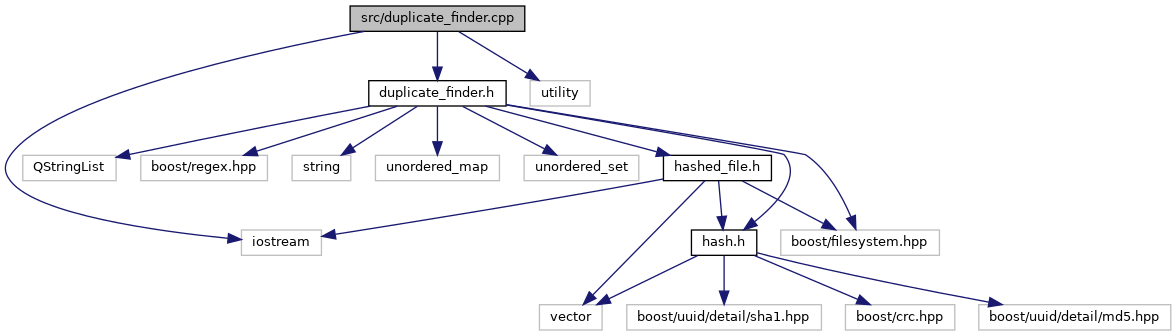
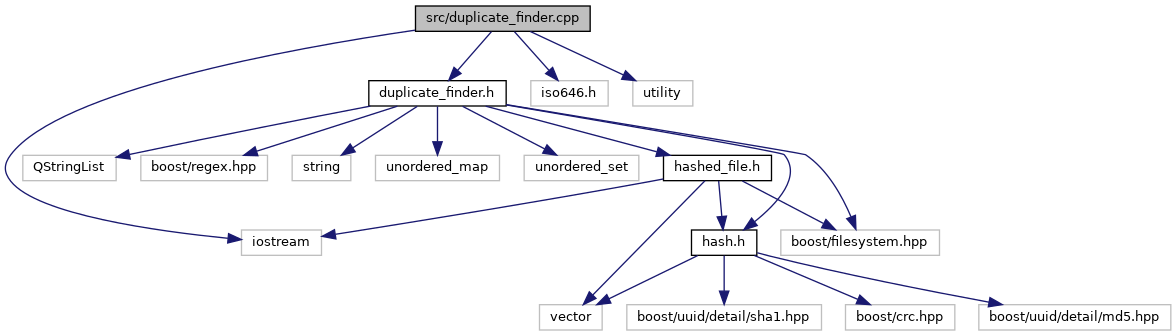
Documentation from travis-ci build

diff --git a/searchwindow_8h_source.html b/searchwindow_8h_source.html
@@ -69,7 +69,7 @@ $(function() {
 <div class="title">searchwindow.h</div>  </div>
 </div><!--header-->
 <div class="contents">
-<a href="searchwindow_8h.html">Go to the documentation of this file.</a><div class="fragment"><div class="line"><a name="l00001"></a><span class="lineno">    1</span>&#160;<span class="preprocessor">#pragma once</span></div><div class="line"><a name="l00002"></a><span class="lineno">    2</span>&#160;</div><div class="line"><a name="l00003"></a><span class="lineno">    3</span>&#160;<span class="preprocessor">#include &lt;QCheckBox&gt;</span></div><div class="line"><a name="l00004"></a><span class="lineno">    4</span>&#160;<span class="preprocessor">#include &lt;QComboBox&gt;</span></div><div class="line"><a name="l00005"></a><span class="lineno">    5</span>&#160;<span class="preprocessor">#include &lt;QFileDialog&gt;</span></div><div class="line"><a name="l00006"></a><span class="lineno">    6</span>&#160;<span class="preprocessor">#include &lt;QLabel&gt;</span></div><div class="line"><a name="l00007"></a><span class="lineno">    7</span>&#160;<span class="preprocessor">#include &lt;QLineEdit&gt;</span></div><div class="line"><a name="l00008"></a><span class="lineno">    8</span>&#160;<span class="preprocessor">#include &lt;QListWidget&gt;</span></div><div class="line"><a name="l00009"></a><span class="lineno">    9</span>&#160;<span class="preprocessor">#include &lt;QPointer&gt;</span></div><div class="line"><a name="l00010"></a><span class="lineno">   10</span>&#160;<span class="preprocessor">#include &lt;QPushButton&gt;</span></div><div class="line"><a name="l00011"></a><span class="lineno">   11</span>&#160;<span class="preprocessor">#include &lt;QRegExpValidator&gt;</span></div><div class="line"><a name="l00012"></a><span class="lineno">   12</span>&#160;<span class="preprocessor">#include &lt;QWidget&gt;</span></div><div class="line"><a name="l00013"></a><span class="lineno">   13</span>&#160;</div><div class="line"><a name="l00014"></a><span class="lineno"><a class="line" href="classSearchWindow.html">   14</a></span>&#160;<span class="keyword">class </span><a class="code" href="classSearchWindow.html">SearchWindow</a> : <span class="keyword">public</span> QWidget</div><div class="line"><a name="l00015"></a><span class="lineno">   15</span>&#160;{</div><div class="line"><a name="l00016"></a><span class="lineno">   16</span>&#160;    Q_OBJECT</div><div class="line"><a name="l00017"></a><span class="lineno">   17</span>&#160;<span class="keyword">public</span>:</div><div class="line"><a name="l00021"></a><span class="lineno">   21</span>&#160;    <a class="code" href="classSearchWindow.html#a852932985703b819d4df3dc68a76720b">SearchWindow</a>();</div><div class="line"><a name="l00022"></a><span class="lineno">   22</span>&#160;</div><div class="line"><a name="l00023"></a><span class="lineno">   23</span>&#160;<span class="keyword">private</span>:</div><div class="line"><a name="l00028"></a><span class="lineno">   28</span>&#160;    <span class="keyword">static</span> QStringList chooseDirectories();</div><div class="line"><a name="l00029"></a><span class="lineno">   29</span>&#160;</div><div class="line"><a name="l00033"></a><span class="lineno">   33</span>&#160;    <span class="keywordtype">void</span> createIncludeDirectoriesView();</div><div class="line"><a name="l00034"></a><span class="lineno">   34</span>&#160;</div><div class="line"><a name="l00038"></a><span class="lineno">   38</span>&#160;    <span class="keywordtype">void</span> createIncludeDirectoriesLabel();</div><div class="line"><a name="l00039"></a><span class="lineno">   39</span>&#160;</div><div class="line"><a name="l00043"></a><span class="lineno">   43</span>&#160;    <span class="keywordtype">void</span> createIncludeDirectoriesButton();</div><div class="line"><a name="l00044"></a><span class="lineno">   44</span>&#160;</div><div class="line"><a name="l00048"></a><span class="lineno">   48</span>&#160;    <span class="keywordtype">void</span> createExcludeDirectoriesView();</div><div class="line"><a name="l00049"></a><span class="lineno">   49</span>&#160;</div><div class="line"><a name="l00053"></a><span class="lineno">   53</span>&#160;    <span class="keywordtype">void</span> createExcludeDirectoriesLabel();</div><div class="line"><a name="l00054"></a><span class="lineno">   54</span>&#160;</div><div class="line"><a name="l00058"></a><span class="lineno">   58</span>&#160;    <span class="keywordtype">void</span> createExcludeDirectoriesButton();</div><div class="line"><a name="l00059"></a><span class="lineno">   59</span>&#160;</div><div class="line"><a name="l00063"></a><span class="lineno">   63</span>&#160;    <span class="keywordtype">void</span> createIncludeMasksView();</div><div class="line"><a name="l00064"></a><span class="lineno">   64</span>&#160;</div><div class="line"><a name="l00068"></a><span class="lineno">   68</span>&#160;    <span class="keywordtype">void</span> createIncludeMasksLabel();</div><div class="line"><a name="l00069"></a><span class="lineno">   69</span>&#160;</div><div class="line"><a name="l00073"></a><span class="lineno">   73</span>&#160;    <span class="keywordtype">void</span> createIncludeMasksEdit();</div><div class="line"><a name="l00074"></a><span class="lineno">   74</span>&#160;</div><div class="line"><a name="l00078"></a><span class="lineno">   78</span>&#160;    <span class="keywordtype">void</span> createIncludeMasksButton();</div><div class="line"><a name="l00079"></a><span class="lineno">   79</span>&#160;</div><div class="line"><a name="l00083"></a><span class="lineno">   83</span>&#160;    <span class="keywordtype">void</span> createIncludeMasksLink();</div><div class="line"><a name="l00084"></a><span class="lineno">   84</span>&#160;</div><div class="line"><a name="l00088"></a><span class="lineno">   88</span>&#160;    <span class="keywordtype">void</span> createExcludeMasksView();</div><div class="line"><a name="l00089"></a><span class="lineno">   89</span>&#160;</div><div class="line"><a name="l00093"></a><span class="lineno">   93</span>&#160;    <span class="keywordtype">void</span> createExcludeMasksLabel();</div><div class="line"><a name="l00094"></a><span class="lineno">   94</span>&#160;</div><div class="line"><a name="l00098"></a><span class="lineno">   98</span>&#160;    <span class="keywordtype">void</span> createExcludeMasksEdit();</div><div class="line"><a name="l00099"></a><span class="lineno">   99</span>&#160;</div><div class="line"><a name="l00103"></a><span class="lineno">  103</span>&#160;    <span class="keywordtype">void</span> createExcludeMasksButton();</div><div class="line"><a name="l00104"></a><span class="lineno">  104</span>&#160;</div><div class="line"><a name="l00108"></a><span class="lineno">  108</span>&#160;    <span class="keywordtype">void</span> createExcludeMasksLink();</div><div class="line"><a name="l00109"></a><span class="lineno">  109</span>&#160;</div><div class="line"><a name="l00113"></a><span class="lineno">  113</span>&#160;    <span class="keywordtype">void</span> createHashSearchBox();</div><div class="line"><a name="l00114"></a><span class="lineno">  114</span>&#160;</div><div class="line"><a name="l00118"></a><span class="lineno">  118</span>&#160;    <span class="keywordtype">void</span> createPossibleHashesComboBox();</div><div class="line"><a name="l00119"></a><span class="lineno">  119</span>&#160;</div><div class="line"><a name="l00123"></a><span class="lineno">  123</span>&#160;    <span class="keywordtype">void</span> createMetaSearchBox();</div><div class="line"><a name="l00124"></a><span class="lineno">  124</span>&#160;</div><div class="line"><a name="l00128"></a><span class="lineno">  128</span>&#160;    <span class="keywordtype">void</span> createAdditionalSettingsButton();</div><div class="line"><a name="l00129"></a><span class="lineno">  129</span>&#160;</div><div class="line"><a name="l00133"></a><span class="lineno">  133</span>&#160;    <span class="keywordtype">void</span> createSearchDepthLabel();</div><div class="line"><a name="l00134"></a><span class="lineno">  134</span>&#160;</div><div class="line"><a name="l00138"></a><span class="lineno">  138</span>&#160;    <span class="keywordtype">void</span> createSearchDepthEdit();</div><div class="line"><a name="l00139"></a><span class="lineno">  139</span>&#160;</div><div class="line"><a name="l00143"></a><span class="lineno">  143</span>&#160;    <span class="keywordtype">void</span> createMinFileSizeLabel();</div><div class="line"><a name="l00144"></a><span class="lineno">  144</span>&#160;</div><div class="line"><a name="l00148"></a><span class="lineno">  148</span>&#160;    <span class="keywordtype">void</span> createMinFileSizeEdit();</div><div class="line"><a name="l00149"></a><span class="lineno">  149</span>&#160;</div><div class="line"><a name="l00153"></a><span class="lineno">  153</span>&#160;    <span class="keywordtype">void</span> createMinFileSizeDimensionComboBox();</div><div class="line"><a name="l00154"></a><span class="lineno">  154</span>&#160;</div><div class="line"><a name="l00158"></a><span class="lineno">  158</span>&#160;    <span class="keywordtype">void</span> createSearchButton();</div><div class="line"><a name="l00159"></a><span class="lineno">  159</span>&#160;</div><div class="line"><a name="l00163"></a><span class="lineno">  163</span>&#160;    <span class="keywordtype">void</span> createSeparators();</div><div class="line"><a name="l00164"></a><span class="lineno">  164</span>&#160;</div><div class="line"><a name="l00165"></a><span class="lineno">  165</span>&#160;    QPointer&lt;QListWidget&gt; _includeDirectoriesView;</div><div class="line"><a name="l00166"></a><span class="lineno">  166</span>&#160;    QPointer&lt;QLabel&gt; _includeDirectoriesLabel;</div><div class="line"><a name="l00167"></a><span class="lineno">  167</span>&#160;    QPointer&lt;QPushButton&gt; _includeDirectoriesButton;</div><div class="line"><a name="l00168"></a><span class="lineno">  168</span>&#160;</div><div class="line"><a name="l00169"></a><span class="lineno">  169</span>&#160;    QPointer&lt;QListWidget&gt; _excludedDirectoriesView;</div><div class="line"><a name="l00170"></a><span class="lineno">  170</span>&#160;    QPointer&lt;QLabel&gt; _excludedDirectoriesLabel;</div><div class="line"><a name="l00171"></a><span class="lineno">  171</span>&#160;    QPointer&lt;QPushButton&gt; _excludeDirectoriesButton;</div><div class="line"><a name="l00172"></a><span class="lineno">  172</span>&#160;</div><div class="line"><a name="l00173"></a><span class="lineno">  173</span>&#160;    QPointer&lt;QListWidget&gt; _includeMasksView;</div><div class="line"><a name="l00174"></a><span class="lineno">  174</span>&#160;    QPointer&lt;QLabel&gt; _includeMasksLabel;</div><div class="line"><a name="l00175"></a><span class="lineno">  175</span>&#160;    QPointer&lt;QLineEdit&gt; _includeMasksEdit;</div><div class="line"><a name="l00176"></a><span class="lineno">  176</span>&#160;    QPointer&lt;QPushButton&gt; _includeMasksButton;</div><div class="line"><a name="l00177"></a><span class="lineno">  177</span>&#160;    QPointer&lt;QLabel&gt; _includeMasksLink;</div><div class="line"><a name="l00178"></a><span class="lineno">  178</span>&#160;</div><div class="line"><a name="l00179"></a><span class="lineno">  179</span>&#160;    QPointer&lt;QListWidget&gt; _excludeMasksView;</div><div class="line"><a name="l00180"></a><span class="lineno">  180</span>&#160;    QPointer&lt;QLabel&gt; _excludeMasksLabel;</div><div class="line"><a name="l00181"></a><span class="lineno">  181</span>&#160;    QPointer&lt;QLineEdit&gt; _excludeMasksEdit;</div><div class="line"><a name="l00182"></a><span class="lineno">  182</span>&#160;    QPointer&lt;QPushButton&gt; _excludeMasksButton;</div><div class="line"><a name="l00183"></a><span class="lineno">  183</span>&#160;    QPointer&lt;QLabel&gt; _excludeMasksLink;</div><div class="line"><a name="l00184"></a><span class="lineno">  184</span>&#160;</div><div class="line"><a name="l00185"></a><span class="lineno">  185</span>&#160;    QPointer&lt;QCheckBox&gt; _hashSearchBox;</div><div class="line"><a name="l00186"></a><span class="lineno">  186</span>&#160;    QPointer&lt;QComboBox&gt; _possibleHashesComboBox;</div><div class="line"><a name="l00187"></a><span class="lineno">  187</span>&#160;</div><div class="line"><a name="l00188"></a><span class="lineno">  188</span>&#160;    QPointer&lt;QCheckBox&gt; _metaSearchBox;</div><div class="line"><a name="l00189"></a><span class="lineno">  189</span>&#160;</div><div class="line"><a name="l00190"></a><span class="lineno">  190</span>&#160;    QPointer&lt;QPushButton&gt; _additionalSettingsButton;</div><div class="line"><a name="l00191"></a><span class="lineno">  191</span>&#160;</div><div class="line"><a name="l00192"></a><span class="lineno">  192</span>&#160;    QPointer&lt;QLabel&gt; _searchDepthLabel;</div><div class="line"><a name="l00193"></a><span class="lineno">  193</span>&#160;    QPointer&lt;QLineEdit&gt; _searchDepthEdit;</div><div class="line"><a name="l00194"></a><span class="lineno">  194</span>&#160;</div><div class="line"><a name="l00195"></a><span class="lineno">  195</span>&#160;    QPointer&lt;QLabel&gt; _minFileSizeLabel;</div><div class="line"><a name="l00196"></a><span class="lineno">  196</span>&#160;    QPointer&lt;QLineEdit&gt; _minFileSizeEdit;</div><div class="line"><a name="l00197"></a><span class="lineno">  197</span>&#160;    QPointer&lt;QComboBox&gt; _minFileSizeDimensionComboBox;</div><div class="line"><a name="l00198"></a><span class="lineno">  198</span>&#160;</div><div class="line"><a name="l00199"></a><span class="lineno">  199</span>&#160;    QPointer&lt;QPushButton&gt; _searchButton;</div><div class="line"><a name="l00200"></a><span class="lineno">  200</span>&#160;</div><div class="line"><a name="l00201"></a><span class="lineno">  201</span>&#160;    QStringList _includeDirectories;</div><div class="line"><a name="l00202"></a><span class="lineno">  202</span>&#160;    QStringList _excludeDirectories;</div><div class="line"><a name="l00203"></a><span class="lineno">  203</span>&#160;    QStringList _includeMasks;</div><div class="line"><a name="l00204"></a><span class="lineno">  204</span>&#160;    QStringList _excludeMasks;</div><div class="line"><a name="l00205"></a><span class="lineno">  205</span>&#160;</div><div class="line"><a name="l00206"></a><span class="lineno">  206</span>&#160;    <span class="keywordtype">bool</span> _searchByHash;</div><div class="line"><a name="l00207"></a><span class="lineno">  207</span>&#160;    <span class="keywordtype">bool</span> _searchByMeta;</div><div class="line"><a name="l00208"></a><span class="lineno">  208</span>&#160;    QString _hashType;</div><div class="line"><a name="l00209"></a><span class="lineno">  209</span>&#160;    QString _searchDepth;</div><div class="line"><a name="l00210"></a><span class="lineno">  210</span>&#160;    QString _minFileSize;</div><div class="line"><a name="l00211"></a><span class="lineno">  211</span>&#160;    QString _minFileSizeDimension;</div><div class="line"><a name="l00212"></a><span class="lineno">  212</span>&#160;</div><div class="line"><a name="l00213"></a><span class="lineno">  213</span>&#160;    <span class="keyword">const</span> QStringList _possibleHashes { <span class="stringliteral">&quot;crc32&quot;</span>, <span class="stringliteral">&quot;md5&quot;</span>, <span class="stringliteral">&quot;sha1&quot;</span> };</div><div class="line"><a name="l00214"></a><span class="lineno">  214</span>&#160;    <span class="keyword">const</span> QStringList _possibleFileSizeDimensions { <span class="stringliteral">&quot;b&quot;</span>, <span class="stringliteral">&quot;Kb&quot;</span>, <span class="stringliteral">&quot;Mb&quot;</span>, <span class="stringliteral">&quot;Gb&quot;</span> };</div><div class="line"><a name="l00215"></a><span class="lineno">  215</span>&#160;    <span class="keyword">const</span> QString _windowName = <span class="stringliteral">&quot;duplicate_finder&quot;</span>;</div><div class="line"><a name="l00216"></a><span class="lineno">  216</span>&#160;    <span class="keyword">const</span> <span class="keywordtype">int</span> _windowWidth = 640;</div><div class="line"><a name="l00217"></a><span class="lineno">  217</span>&#160;    <span class="keyword">const</span> <span class="keywordtype">int</span> _windowHeight = 750;</div><div class="line"><a name="l00218"></a><span class="lineno">  218</span>&#160;</div><div class="line"><a name="l00219"></a><span class="lineno">  219</span>&#160;<span class="keyword">private</span> slots:</div><div class="line"><a name="l00223"></a><span class="lineno">  223</span>&#160;    <span class="keywordtype">void</span> addSearchDirectories();</div><div class="line"><a name="l00224"></a><span class="lineno">  224</span>&#160;</div><div class="line"><a name="l00228"></a><span class="lineno">  228</span>&#160;    <span class="keywordtype">void</span> deleteSearchDirectory();</div><div class="line"><a name="l00229"></a><span class="lineno">  229</span>&#160;</div><div class="line"><a name="l00233"></a><span class="lineno">  233</span>&#160;    <span class="keywordtype">void</span> addExcludeDirectories();</div><div class="line"><a name="l00237"></a><span class="lineno">  237</span>&#160;    <span class="keywordtype">void</span> deleteExcludeDirectory();</div><div class="line"><a name="l00238"></a><span class="lineno">  238</span>&#160;</div><div class="line"><a name="l00242"></a><span class="lineno">  242</span>&#160;    <span class="keywordtype">void</span> addIncludeMask();</div><div class="line"><a name="l00243"></a><span class="lineno">  243</span>&#160;</div><div class="line"><a name="l00247"></a><span class="lineno">  247</span>&#160;    <span class="keywordtype">void</span> deleteIncludeMask();</div><div class="line"><a name="l00248"></a><span class="lineno">  248</span>&#160;</div><div class="line"><a name="l00252"></a><span class="lineno">  252</span>&#160;    <span class="keywordtype">void</span> addExcludeMask();</div><div class="line"><a name="l00253"></a><span class="lineno">  253</span>&#160;</div><div class="line"><a name="l00257"></a><span class="lineno">  257</span>&#160;    <span class="keywordtype">void</span> deleteExcludeMask();</div><div class="line"><a name="l00258"></a><span class="lineno">  258</span>&#160;</div><div class="line"><a name="l00262"></a><span class="lineno">  262</span>&#160;    <span class="keywordtype">void</span> toggleHashBox();</div><div class="line"><a name="l00263"></a><span class="lineno">  263</span>&#160;</div><div class="line"><a name="l00267"></a><span class="lineno">  267</span>&#160;    <span class="keywordtype">void</span> toggleMetaBox();</div><div class="line"><a name="l00268"></a><span class="lineno">  268</span>&#160;</div><div class="line"><a name="l00272"></a><span class="lineno">  272</span>&#160;    <span class="keywordtype">void</span> changeHash();</div><div class="line"><a name="l00273"></a><span class="lineno">  273</span>&#160;</div><div class="line"><a name="l00277"></a><span class="lineno">  277</span>&#160;    <span class="keywordtype">void</span> toggleAdditionalSettings();</div><div class="line"><a name="l00278"></a><span class="lineno">  278</span>&#160;</div><div class="line"><a name="l00282"></a><span class="lineno">  282</span>&#160;    <span class="keywordtype">void</span> changeFileSizeDimension();</div><div class="line"><a name="l00283"></a><span class="lineno">  283</span>&#160;</div><div class="line"><a name="l00287"></a><span class="lineno">  287</span>&#160;    <span class="keyword">static</span> <span class="keywordtype">void</span> openMaskHelp();</div><div class="line"><a name="l00288"></a><span class="lineno">  288</span>&#160;</div><div class="line"><a name="l00292"></a><span class="lineno">  292</span>&#160;    <span class="keywordtype">void</span> runSearch();</div><div class="line"><a name="l00293"></a><span class="lineno">  293</span>&#160;};</div><div class="ttc" id="classSearchWindow_html_a852932985703b819d4df3dc68a76720b"><div class="ttname"><a href="classSearchWindow.html#a852932985703b819d4df3dc68a76720b">SearchWindow::SearchWindow</a></div><div class="ttdeci">SearchWindow()</div><div class="ttdoc">Конструктор окна с настройками поиска </div><div class="ttdef"><b>Definition:</b> searchwindow.cpp:9</div></div>
+<a href="searchwindow_8h.html">Go to the documentation of this file.</a><div class="fragment"><div class="line"><a name="l00001"></a><span class="lineno">    1</span>&#160;<span class="preprocessor">#pragma once</span></div><div class="line"><a name="l00002"></a><span class="lineno">    2</span>&#160;</div><div class="line"><a name="l00003"></a><span class="lineno">    3</span>&#160;<span class="preprocessor">#include &lt;QCheckBox&gt;</span></div><div class="line"><a name="l00004"></a><span class="lineno">    4</span>&#160;<span class="preprocessor">#include &lt;QComboBox&gt;</span></div><div class="line"><a name="l00005"></a><span class="lineno">    5</span>&#160;<span class="preprocessor">#include &lt;QFileDialog&gt;</span></div><div class="line"><a name="l00006"></a><span class="lineno">    6</span>&#160;<span class="preprocessor">#include &lt;QLabel&gt;</span></div><div class="line"><a name="l00007"></a><span class="lineno">    7</span>&#160;<span class="preprocessor">#include &lt;QLineEdit&gt;</span></div><div class="line"><a name="l00008"></a><span class="lineno">    8</span>&#160;<span class="preprocessor">#include &lt;QListWidget&gt;</span></div><div class="line"><a name="l00009"></a><span class="lineno">    9</span>&#160;<span class="preprocessor">#include &lt;QPointer&gt;</span></div><div class="line"><a name="l00010"></a><span class="lineno">   10</span>&#160;<span class="preprocessor">#include &lt;QPushButton&gt;</span></div><div class="line"><a name="l00011"></a><span class="lineno">   11</span>&#160;<span class="preprocessor">#include &lt;QRegExpValidator&gt;</span></div><div class="line"><a name="l00012"></a><span class="lineno">   12</span>&#160;<span class="preprocessor">#include &lt;QWidget&gt;</span></div><div class="line"><a name="l00013"></a><span class="lineno">   13</span>&#160;</div><div class="line"><a name="l00014"></a><span class="lineno"><a class="line" href="classSearchWindow.html">   14</a></span>&#160;<span class="keyword">class </span><a class="code" href="classSearchWindow.html">SearchWindow</a> : <span class="keyword">public</span> QWidget</div><div class="line"><a name="l00015"></a><span class="lineno">   15</span>&#160;{</div><div class="line"><a name="l00016"></a><span class="lineno">   16</span>&#160;    Q_OBJECT</div><div class="line"><a name="l00017"></a><span class="lineno">   17</span>&#160;<span class="keyword">public</span>:</div><div class="line"><a name="l00021"></a><span class="lineno">   21</span>&#160;    <a class="code" href="classSearchWindow.html#a852932985703b819d4df3dc68a76720b">SearchWindow</a>();</div><div class="line"><a name="l00022"></a><span class="lineno">   22</span>&#160;</div><div class="line"><a name="l00023"></a><span class="lineno">   23</span>&#160;<span class="keyword">private</span>:</div><div class="line"><a name="l00028"></a><span class="lineno">   28</span>&#160;    <span class="keyword">static</span> QStringList chooseDirectories();</div><div class="line"><a name="l00029"></a><span class="lineno">   29</span>&#160;</div><div class="line"><a name="l00033"></a><span class="lineno">   33</span>&#160;    <span class="keywordtype">void</span> createIncludeDirectoriesView();</div><div class="line"><a name="l00034"></a><span class="lineno">   34</span>&#160;</div><div class="line"><a name="l00038"></a><span class="lineno">   38</span>&#160;    <span class="keywordtype">void</span> createIncludeDirectoriesLabel();</div><div class="line"><a name="l00039"></a><span class="lineno">   39</span>&#160;</div><div class="line"><a name="l00043"></a><span class="lineno">   43</span>&#160;    <span class="keywordtype">void</span> createIncludeDirectoriesButton();</div><div class="line"><a name="l00044"></a><span class="lineno">   44</span>&#160;</div><div class="line"><a name="l00048"></a><span class="lineno">   48</span>&#160;    <span class="keywordtype">void</span> createExcludeDirectoriesView();</div><div class="line"><a name="l00049"></a><span class="lineno">   49</span>&#160;</div><div class="line"><a name="l00053"></a><span class="lineno">   53</span>&#160;    <span class="keywordtype">void</span> createExcludeDirectoriesLabel();</div><div class="line"><a name="l00054"></a><span class="lineno">   54</span>&#160;</div><div class="line"><a name="l00058"></a><span class="lineno">   58</span>&#160;    <span class="keywordtype">void</span> createExcludeDirectoriesButton();</div><div class="line"><a name="l00059"></a><span class="lineno">   59</span>&#160;</div><div class="line"><a name="l00063"></a><span class="lineno">   63</span>&#160;    <span class="keywordtype">void</span> createIncludeMasksView();</div><div class="line"><a name="l00064"></a><span class="lineno">   64</span>&#160;</div><div class="line"><a name="l00068"></a><span class="lineno">   68</span>&#160;    <span class="keywordtype">void</span> createIncludeMasksLabel();</div><div class="line"><a name="l00069"></a><span class="lineno">   69</span>&#160;</div><div class="line"><a name="l00073"></a><span class="lineno">   73</span>&#160;    <span class="keywordtype">void</span> createIncludeMasksEdit();</div><div class="line"><a name="l00074"></a><span class="lineno">   74</span>&#160;</div><div class="line"><a name="l00078"></a><span class="lineno">   78</span>&#160;    <span class="keywordtype">void</span> createIncludeMasksButton();</div><div class="line"><a name="l00079"></a><span class="lineno">   79</span>&#160;</div><div class="line"><a name="l00083"></a><span class="lineno">   83</span>&#160;    <span class="keywordtype">void</span> createIncludeMasksLink();</div><div class="line"><a name="l00084"></a><span class="lineno">   84</span>&#160;</div><div class="line"><a name="l00088"></a><span class="lineno">   88</span>&#160;    <span class="keywordtype">void</span> createExcludeMasksView();</div><div class="line"><a name="l00089"></a><span class="lineno">   89</span>&#160;</div><div class="line"><a name="l00093"></a><span class="lineno">   93</span>&#160;    <span class="keywordtype">void</span> createExcludeMasksLabel();</div><div class="line"><a name="l00094"></a><span class="lineno">   94</span>&#160;</div><div class="line"><a name="l00098"></a><span class="lineno">   98</span>&#160;    <span class="keywordtype">void</span> createExcludeMasksEdit();</div><div class="line"><a name="l00099"></a><span class="lineno">   99</span>&#160;</div><div class="line"><a name="l00103"></a><span class="lineno">  103</span>&#160;    <span class="keywordtype">void</span> createExcludeMasksButton();</div><div class="line"><a name="l00104"></a><span class="lineno">  104</span>&#160;</div><div class="line"><a name="l00108"></a><span class="lineno">  108</span>&#160;    <span class="keywordtype">void</span> createExcludeMasksLink();</div><div class="line"><a name="l00109"></a><span class="lineno">  109</span>&#160;</div><div class="line"><a name="l00113"></a><span class="lineno">  113</span>&#160;    <span class="keywordtype">void</span> createHashSearchBox();</div><div class="line"><a name="l00114"></a><span class="lineno">  114</span>&#160;</div><div class="line"><a name="l00118"></a><span class="lineno">  118</span>&#160;    <span class="keywordtype">void</span> createPossibleHashesComboBox();</div><div class="line"><a name="l00119"></a><span class="lineno">  119</span>&#160;</div><div class="line"><a name="l00123"></a><span class="lineno">  123</span>&#160;    <span class="keywordtype">void</span> createMetaSearchBox();</div><div class="line"><a name="l00124"></a><span class="lineno">  124</span>&#160;</div><div class="line"><a name="l00128"></a><span class="lineno">  128</span>&#160;    <span class="keywordtype">void</span> createAdditionalSettingsButton();</div><div class="line"><a name="l00129"></a><span class="lineno">  129</span>&#160;</div><div class="line"><a name="l00133"></a><span class="lineno">  133</span>&#160;    <span class="keywordtype">void</span> createSearchDepthLabel();</div><div class="line"><a name="l00134"></a><span class="lineno">  134</span>&#160;</div><div class="line"><a name="l00138"></a><span class="lineno">  138</span>&#160;    <span class="keywordtype">void</span> createSearchDepthEdit();</div><div class="line"><a name="l00139"></a><span class="lineno">  139</span>&#160;</div><div class="line"><a name="l00143"></a><span class="lineno">  143</span>&#160;    <span class="keywordtype">void</span> createMinFileSizeLabel();</div><div class="line"><a name="l00144"></a><span class="lineno">  144</span>&#160;</div><div class="line"><a name="l00148"></a><span class="lineno">  148</span>&#160;    <span class="keywordtype">void</span> createMinFileSizeEdit();</div><div class="line"><a name="l00149"></a><span class="lineno">  149</span>&#160;</div><div class="line"><a name="l00153"></a><span class="lineno">  153</span>&#160;    <span class="keywordtype">void</span> createMinFileSizeDimensionComboBox();</div><div class="line"><a name="l00154"></a><span class="lineno">  154</span>&#160;</div><div class="line"><a name="l00158"></a><span class="lineno">  158</span>&#160;    <span class="keywordtype">void</span> createSearchButton();</div><div class="line"><a name="l00159"></a><span class="lineno">  159</span>&#160;</div><div class="line"><a name="l00163"></a><span class="lineno">  163</span>&#160;    <span class="keywordtype">void</span> createSeparators();</div><div class="line"><a name="l00164"></a><span class="lineno">  164</span>&#160;</div><div class="line"><a name="l00165"></a><span class="lineno">  165</span>&#160;    QPointer&lt;QListWidget&gt; _includeDirectoriesView;</div><div class="line"><a name="l00166"></a><span class="lineno">  166</span>&#160;    QPointer&lt;QLabel&gt; _includeDirectoriesLabel;</div><div class="line"><a name="l00167"></a><span class="lineno">  167</span>&#160;    QPointer&lt;QPushButton&gt; _includeDirectoriesButton;</div><div class="line"><a name="l00168"></a><span class="lineno">  168</span>&#160;</div><div class="line"><a name="l00169"></a><span class="lineno">  169</span>&#160;    QPointer&lt;QListWidget&gt; _excludedDirectoriesView;</div><div class="line"><a name="l00170"></a><span class="lineno">  170</span>&#160;    QPointer&lt;QLabel&gt; _excludedDirectoriesLabel;</div><div class="line"><a name="l00171"></a><span class="lineno">  171</span>&#160;    QPointer&lt;QPushButton&gt; _excludeDirectoriesButton;</div><div class="line"><a name="l00172"></a><span class="lineno">  172</span>&#160;</div><div class="line"><a name="l00173"></a><span class="lineno">  173</span>&#160;    QPointer&lt;QListWidget&gt; _includeMasksView;</div><div class="line"><a name="l00174"></a><span class="lineno">  174</span>&#160;    QPointer&lt;QLabel&gt; _includeMasksLabel;</div><div class="line"><a name="l00175"></a><span class="lineno">  175</span>&#160;    QPointer&lt;QLineEdit&gt; _includeMasksEdit;</div><div class="line"><a name="l00176"></a><span class="lineno">  176</span>&#160;    QPointer&lt;QPushButton&gt; _includeMasksButton;</div><div class="line"><a name="l00177"></a><span class="lineno">  177</span>&#160;    QPointer&lt;QLabel&gt; _includeMasksLink;</div><div class="line"><a name="l00178"></a><span class="lineno">  178</span>&#160;</div><div class="line"><a name="l00179"></a><span class="lineno">  179</span>&#160;    QPointer&lt;QListWidget&gt; _excludeMasksView;</div><div class="line"><a name="l00180"></a><span class="lineno">  180</span>&#160;    QPointer&lt;QLabel&gt; _excludeMasksLabel;</div><div class="line"><a name="l00181"></a><span class="lineno">  181</span>&#160;    QPointer&lt;QLineEdit&gt; _excludeMasksEdit;</div><div class="line"><a name="l00182"></a><span class="lineno">  182</span>&#160;    QPointer&lt;QPushButton&gt; _excludeMasksButton;</div><div class="line"><a name="l00183"></a><span class="lineno">  183</span>&#160;    QPointer&lt;QLabel&gt; _excludeMasksLink;</div><div class="line"><a name="l00184"></a><span class="lineno">  184</span>&#160;</div><div class="line"><a name="l00185"></a><span class="lineno">  185</span>&#160;    QPointer&lt;QCheckBox&gt; _hashSearchBox;</div><div class="line"><a name="l00186"></a><span class="lineno">  186</span>&#160;    QPointer&lt;QComboBox&gt; _possibleHashesComboBox;</div><div class="line"><a name="l00187"></a><span class="lineno">  187</span>&#160;</div><div class="line"><a name="l00188"></a><span class="lineno">  188</span>&#160;    QPointer&lt;QCheckBox&gt; _metaSearchBox;</div><div class="line"><a name="l00189"></a><span class="lineno">  189</span>&#160;</div><div class="line"><a name="l00190"></a><span class="lineno">  190</span>&#160;    QPointer&lt;QPushButton&gt; _additionalSettingsButton;</div><div class="line"><a name="l00191"></a><span class="lineno">  191</span>&#160;</div><div class="line"><a name="l00192"></a><span class="lineno">  192</span>&#160;    QPointer&lt;QLabel&gt; _searchDepthLabel;</div><div class="line"><a name="l00193"></a><span class="lineno">  193</span>&#160;    QPointer&lt;QLineEdit&gt; _searchDepthEdit;</div><div class="line"><a name="l00194"></a><span class="lineno">  194</span>&#160;</div><div class="line"><a name="l00195"></a><span class="lineno">  195</span>&#160;    QPointer&lt;QLabel&gt; _minFileSizeLabel;</div><div class="line"><a name="l00196"></a><span class="lineno">  196</span>&#160;    QPointer&lt;QLineEdit&gt; _minFileSizeEdit;</div><div class="line"><a name="l00197"></a><span class="lineno">  197</span>&#160;    QPointer&lt;QComboBox&gt; _minFileSizeDimensionComboBox;</div><div class="line"><a name="l00198"></a><span class="lineno">  198</span>&#160;</div><div class="line"><a name="l00199"></a><span class="lineno">  199</span>&#160;    QPointer&lt;QPushButton&gt; _searchButton;</div><div class="line"><a name="l00200"></a><span class="lineno">  200</span>&#160;</div><div class="line"><a name="l00201"></a><span class="lineno">  201</span>&#160;    QStringList _includeDirectories;</div><div class="line"><a name="l00202"></a><span class="lineno">  202</span>&#160;    QStringList _excludeDirectories;</div><div class="line"><a name="l00203"></a><span class="lineno">  203</span>&#160;    QStringList _includeMasks;</div><div class="line"><a name="l00204"></a><span class="lineno">  204</span>&#160;    QStringList _excludeMasks;</div><div class="line"><a name="l00205"></a><span class="lineno">  205</span>&#160;</div><div class="line"><a name="l00206"></a><span class="lineno">  206</span>&#160;    <span class="keywordtype">bool</span> _searchByHash;</div><div class="line"><a name="l00207"></a><span class="lineno">  207</span>&#160;    <span class="keywordtype">bool</span> _searchByMeta;</div><div class="line"><a name="l00208"></a><span class="lineno">  208</span>&#160;    QString _hashType;</div><div class="line"><a name="l00209"></a><span class="lineno">  209</span>&#160;    QString _searchDepth;</div><div class="line"><a name="l00210"></a><span class="lineno">  210</span>&#160;    QString _minFileSize;</div><div class="line"><a name="l00211"></a><span class="lineno">  211</span>&#160;    QString _minFileSizeDimension;</div><div class="line"><a name="l00212"></a><span class="lineno">  212</span>&#160;</div><div class="line"><a name="l00213"></a><span class="lineno">  213</span>&#160;    <span class="keyword">const</span> QStringList _possibleHashes { <span class="stringliteral">&quot;crc32&quot;</span>, <span class="stringliteral">&quot;md5&quot;</span>, <span class="stringliteral">&quot;sha1&quot;</span> };</div><div class="line"><a name="l00214"></a><span class="lineno">  214</span>&#160;    <span class="keyword">const</span> QStringList _possibleFileSizeDimensions { <span class="stringliteral">&quot;b&quot;</span>, <span class="stringliteral">&quot;Kb&quot;</span>, <span class="stringliteral">&quot;Mb&quot;</span>, <span class="stringliteral">&quot;Gb&quot;</span> };</div><div class="line"><a name="l00215"></a><span class="lineno">  215</span>&#160;    <span class="keyword">const</span> QString _windowName = <span class="stringliteral">&quot;duplicate_finder&quot;</span>;</div><div class="line"><a name="l00216"></a><span class="lineno">  216</span>&#160;    <span class="keyword">const</span> <span class="keywordtype">int</span> _windowWidth = 640;</div><div class="line"><a name="l00217"></a><span class="lineno">  217</span>&#160;    <span class="keyword">const</span> <span class="keywordtype">int</span> _windowHeight = 750;</div><div class="line"><a name="l00218"></a><span class="lineno">  218</span>&#160;</div><div class="line"><a name="l00219"></a><span class="lineno">  219</span>&#160;<span class="keyword">private</span> slots:</div><div class="line"><a name="l00223"></a><span class="lineno">  223</span>&#160;    <span class="keywordtype">void</span> addSearchDirectories();</div><div class="line"><a name="l00224"></a><span class="lineno">  224</span>&#160;</div><div class="line"><a name="l00228"></a><span class="lineno">  228</span>&#160;    <span class="keywordtype">void</span> deleteSearchDirectory();</div><div class="line"><a name="l00229"></a><span class="lineno">  229</span>&#160;</div><div class="line"><a name="l00233"></a><span class="lineno">  233</span>&#160;    <span class="keywordtype">void</span> addExcludeDirectories();</div><div class="line"><a name="l00237"></a><span class="lineno">  237</span>&#160;    <span class="keywordtype">void</span> deleteExcludeDirectory();</div><div class="line"><a name="l00238"></a><span class="lineno">  238</span>&#160;</div><div class="line"><a name="l00242"></a><span class="lineno">  242</span>&#160;    <span class="keywordtype">void</span> addIncludeMask();</div><div class="line"><a name="l00243"></a><span class="lineno">  243</span>&#160;</div><div class="line"><a name="l00247"></a><span class="lineno">  247</span>&#160;    <span class="keywordtype">void</span> deleteIncludeMask();</div><div class="line"><a name="l00248"></a><span class="lineno">  248</span>&#160;</div><div class="line"><a name="l00252"></a><span class="lineno">  252</span>&#160;    <span class="keywordtype">void</span> addExcludeMask();</div><div class="line"><a name="l00253"></a><span class="lineno">  253</span>&#160;</div><div class="line"><a name="l00257"></a><span class="lineno">  257</span>&#160;    <span class="keywordtype">void</span> deleteExcludeMask();</div><div class="line"><a name="l00258"></a><span class="lineno">  258</span>&#160;</div><div class="line"><a name="l00262"></a><span class="lineno">  262</span>&#160;    <span class="keywordtype">void</span> toggleHashBox();</div><div class="line"><a name="l00263"></a><span class="lineno">  263</span>&#160;</div><div class="line"><a name="l00267"></a><span class="lineno">  267</span>&#160;    <span class="keywordtype">void</span> toggleMetaBox();</div><div class="line"><a name="l00268"></a><span class="lineno">  268</span>&#160;</div><div class="line"><a name="l00272"></a><span class="lineno">  272</span>&#160;    <span class="keywordtype">void</span> changeHash();</div><div class="line"><a name="l00273"></a><span class="lineno">  273</span>&#160;</div><div class="line"><a name="l00277"></a><span class="lineno">  277</span>&#160;    <span class="keywordtype">void</span> toggleAdditionalSettings();</div><div class="line"><a name="l00278"></a><span class="lineno">  278</span>&#160;</div><div class="line"><a name="l00282"></a><span class="lineno">  282</span>&#160;    <span class="keywordtype">void</span> changeFileSizeDimension();</div><div class="line"><a name="l00283"></a><span class="lineno">  283</span>&#160;</div><div class="line"><a name="l00287"></a><span class="lineno">  287</span>&#160;    <span class="keyword">static</span> <span class="keywordtype">void</span> openMaskHelp();</div><div class="line"><a name="l00288"></a><span class="lineno">  288</span>&#160;</div><div class="line"><a name="l00292"></a><span class="lineno">  292</span>&#160;    <span class="keywordtype">void</span> runSearch();</div><div class="line"><a name="l00293"></a><span class="lineno">  293</span>&#160;};</div><div class="ttc" id="classSearchWindow_html_a852932985703b819d4df3dc68a76720b"><div class="ttname"><a href="classSearchWindow.html#a852932985703b819d4df3dc68a76720b">SearchWindow::SearchWindow</a></div><div class="ttdeci">SearchWindow()</div><div class="ttdoc">Конструктор окна с настройками поиска </div><div class="ttdef"><b>Definition:</b> searchwindow.cpp:10</div></div>
 <div class="ttc" id="classSearchWindow_html"><div class="ttname"><a href="classSearchWindow.html">SearchWindow</a></div><div class="ttdef"><b>Definition:</b> searchwindow.h:14</div></div>
 </div><!-- fragment --></div><!-- contents -->
 <!-- start footer part -->

diff --git a/duplicate__finder_8h_source.html b/duplicate__finder_8h_source.html
@@ -73,7 +73,7 @@ $(function() {
 <div class="ttc" id="classDuplicateFinder_html_aae943c51bdb2bd2e527d7a5495d71f31"><div class="ttname"><a href="classDuplicateFinder.html#aae943c51bdb2bd2e527d7a5495d71f31">DuplicateFinder::DuplicateFinder</a></div><div class="ttdeci">DuplicateFinder()=delete</div></div>
 <div class="ttc" id="hash_8h_html"><div class="ttname"><a href="hash_8h.html">hash.h</a></div></div>
 <div class="ttc" id="classDuplicateFinder_html"><div class="ttname"><a href="classDuplicateFinder.html">DuplicateFinder</a></div><div class="ttdef"><b>Definition:</b> duplicate_finder.h:13</div></div>
-<div class="ttc" id="classDuplicateFinder_html_abcf0fb9d8cb47d610668d6c3ca042921"><div class="ttname"><a href="classDuplicateFinder.html#abcf0fb9d8cb47d610668d6c3ca042921">DuplicateFinder::Find</a></div><div class="ttdeci">std::unordered_map&lt; std::string, std::unordered_set&lt; std::string &gt; &gt; Find()</div><div class="ttdoc">Find duplicate files. </div><div class="ttdef"><b>Definition:</b> duplicate_finder.cpp:48</div></div>
+<div class="ttc" id="classDuplicateFinder_html_abcf0fb9d8cb47d610668d6c3ca042921"><div class="ttname"><a href="classDuplicateFinder.html#abcf0fb9d8cb47d610668d6c3ca042921">DuplicateFinder::Find</a></div><div class="ttdeci">std::unordered_map&lt; std::string, std::unordered_set&lt; std::string &gt; &gt; Find()</div><div class="ttdoc">Find duplicate files. </div><div class="ttdef"><b>Definition:</b> duplicate_finder.cpp:49</div></div>
 </div><!-- fragment --></div><!-- contents -->
 <!-- start footer part -->
 <hr class="footer"/><address class="footer"><small>

diff --git a/duplicate__finder_8cpp.html b/duplicate__finder_8cpp.html
@@ -71,6 +71,7 @@ $(function() {
 <div class="contents">
 <div class="textblock"><code>#include &quot;<a class="el" href="duplicate__finder_8h_source.html">duplicate_finder.h</a>&quot;</code><br />
 <code>#include &lt;iostream&gt;</code><br />
+<code>#include &lt;iso646.h&gt;</code><br />
 <code>#include &lt;utility&gt;</code><br />
 </div><div class="textblock"><div class="dynheader">
 Include dependency graph for duplicate_finder.cpp:</div>

diff --git a/searchwindow_8cpp.html b/searchwindow_8cpp.html
@@ -74,6 +74,7 @@ $(function() {
 <code>#include &lt;QDesktopServices&gt;</code><br />
 <code>#include &lt;QShortcut&gt;</code><br />
 <code>#include &lt;QTreeView&gt;</code><br />
+<code>#include &lt;iso646.h&gt;</code><br />
 </div><div class="textblock"><div class="dynheader">
 Include dependency graph for searchwindow.cpp:</div>
 <div class="dyncontent">
